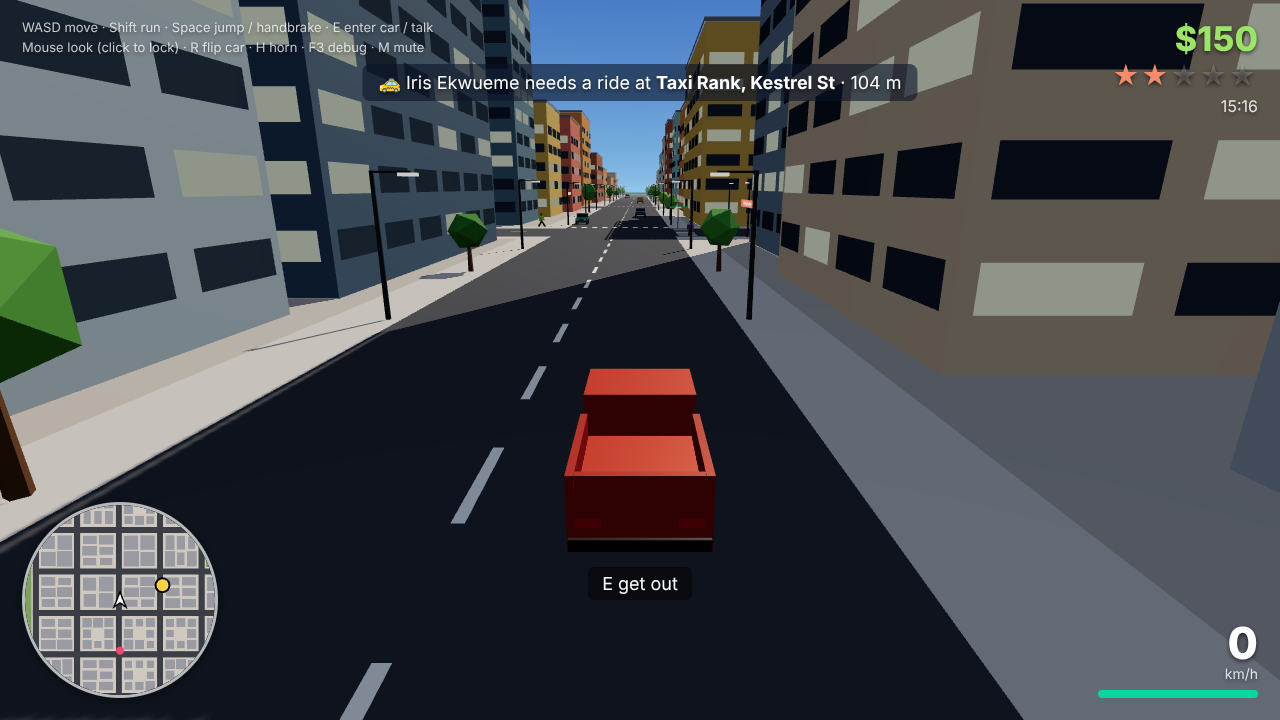
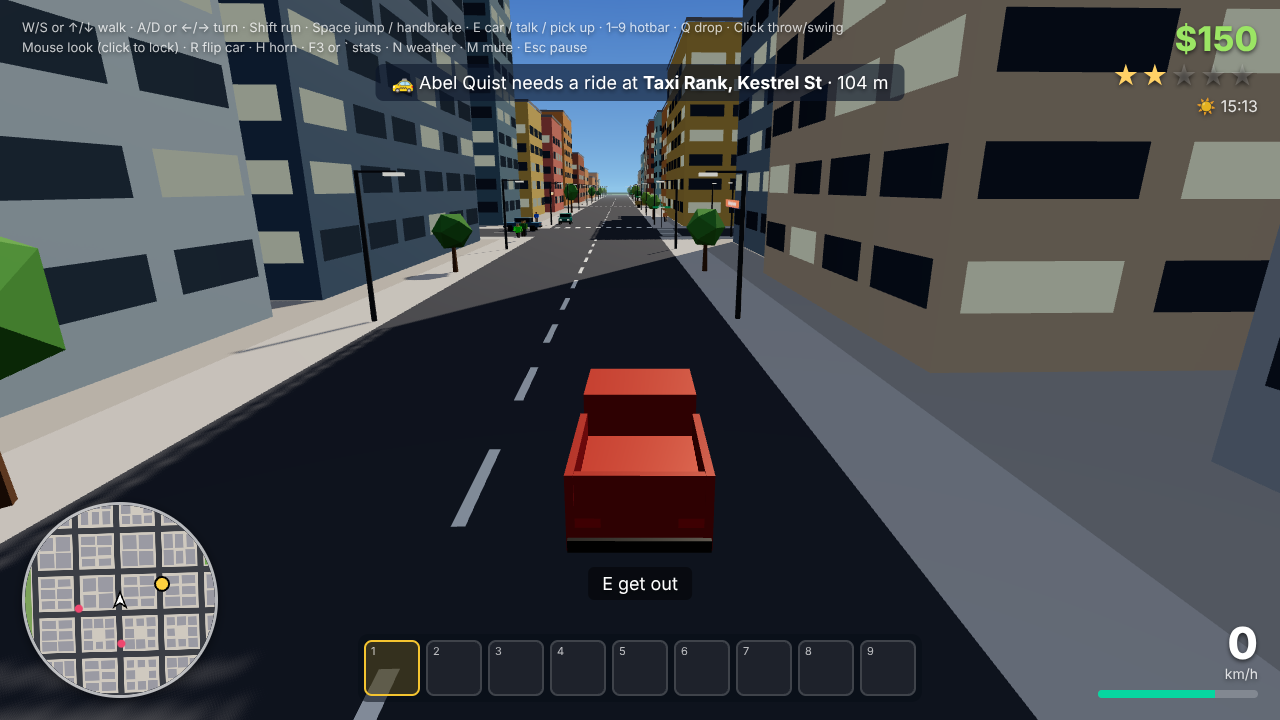
Cut per-frame Rapier writes: pedestrian capsules only near the player, traffic/police rotation only on heading change; gate screenshots
Claude-Session: https://claude.ai/code/session_012Y9CQc2geJ2jhDimLjKczQ

diff --git a/src/systems/pedestrians.ts b/src/systems/pedestrians.ts
@@ -79,6 +79,7 @@ export interface Ped {
   report: { x: number; z: number; heat: number; kind: string } | null;
   /** Kids and dogs are never targets: things pass them by and they always dodge cars. */
   protectedTarget: boolean;
+  solid: boolean; // capsule currently enabled
 }
 
 const SKIN = ['#f1c27d', '#e0ac69', '#c68642', '#8d5524', '#ffdbac', '#a0522d'];
@@ -127,7 +128,7 @@ function makePed(w: World, id: number, rng: Rng, archetype: Archetype, startX: n
     walkPhase: rng.range(0, 6), moveAmount: 0, speedingCd: 0, offset: rng.range(-0.9, 0.9), reserved: false,
     health: 100, hitCount: 0, lastHitByPlayer: -100, lastShoved: -100, shoveCount: 0, shoutT: 0,
     scale, tilt: 0, armPose: 'none', prop, shirt, pants, skin: C(SKIN), hair, speedMul: spec.speed, followId: -1, dog: null,
-    body, collider, phoneT: 0, phoneMode: null, report: null, protectedTarget: archetype === 'kid',
+    body, collider, phoneT: 0, phoneMode: null, report: null, protectedTarget: archetype === 'kid', solid: true,
   };
 }
 
@@ -170,7 +171,8 @@ export function applyPedBudget(w: World): void {
     if (want === p.active) continue;
     if (!want && (p.state === 'talk' || p.reserved)) continue; // never vanish mid-conversation or as a fare
     p.active = want;
-    p.body.setEnabled(want && !p.hidden);
+    p.solid = want && !p.hidden;
+    p.body.setEnabled(p.solid);
     if (want) relocateNearPlayer(w, p);
   }
 }
@@ -457,9 +459,13 @@ export function updatePeds(w: World, dt: number): void {
     ped.moveAmount = ped.state === 'down' ? 0 : Math.min(1.4, moveSpeed / PT.walkSpeed);
     if (ped.dog) updateDog(w, ped, dt, moveSpeed);
 
-    // capsule follows the body (off while lying down or hidden)
-    const solid = ped.state !== 'down';
-    if (ped.body.isEnabled() !== solid) ped.body.setEnabled(solid);
+    // capsule follows the body, but only near the player: nothing else touches it, and every Rapier
+    // body update allocates, so far-away capsules are switched off (also off while lying down)
+    const solid = ped.state !== 'down' && Math.abs(ped.pos.x - pp.x) < PT.capsuleRange && Math.abs(ped.pos.z - pp.z) < PT.capsuleRange;
+    if (ped.solid !== solid) {
+      ped.solid = solid;
+      ped.body.setEnabled(solid);
+    }
     if (solid) {
       KIN.x = ped.pos.x; KIN.y = ped.pos.y + 0.95 * ped.scale; KIN.z = ped.pos.z;
       ped.body.setNextKinematicTranslation(KIN);

diff --git a/src/systems/traffic.ts b/src/systems/traffic.ts
@@ -36,6 +36,7 @@ export interface AiCar {
   swerveT: number;
   stunT: number;
   stuckT: number;
+  lastSetHeading: number; // heading last written to the physics body
   px: number; // cached position, refreshed once per physics step (avoids allocating translation() calls)
   pz: number;
   /** Optional route chooser at junctions (police use BFS toward the player). */
@@ -125,7 +126,7 @@ export function createAiCar(w: World, kind: 'traffic' | 'police', type: CarTypeN
   const car: AiCar = {
     id: kind === 'police' ? w.police?.cars?.length ?? 0 : w.traffic.length, kind, type, body, collider, mesh, meshYOffset: rideY - halfH, halfW: hx, halfL: hz,
     from, to, next: -1, phase: 'lane', path: [], cum: [], s: 0, speed: 0, heading: 0, waitT: 0, honkCd: 0, blockedT: 0,
-    swerve: 0, swerveT: 0, stunT: 0, stuckT: 0, px: 0, pz: 0,
+    swerve: 0, swerveT: 0, stunT: 0, stuckT: 0, px: 0, pz: 0, lastSetHeading: NaN,
   };
   placeOnEdge(w, car, from, to, s0);
   return car;
@@ -142,6 +143,7 @@ export function placeOnEdge(w: World, car: AiCar, from: number, to: number, s0: 
   car.heading = Math.atan2(d.x, d.y);
   car.body.setTranslation({ x: p.x, y: 0.62, z: p.y }, true);
   car.body.setRotation(yawQuat(car.heading), true);
+  car.lastSetHeading = car.heading;
   car.body.setLinvel({ x: 0, y: 0, z: 0 }, true);
   car.px = p.x;
   car.pz = p.y;
@@ -284,8 +286,11 @@ export function driveAlongPath(w: World, car: AiCar, want: number, dt: number, r
   car.heading += THREE.MathUtils.clamp(dh * 4 * dt, -turnRate * dt, turnRate * dt);
   const lv = car.body.linvel();
   car.body.setLinvel(velXZ(Math.sin(car.heading) * car.speed, lv.y, Math.cos(car.heading) * car.speed), true);
-  car.body.setAngvel(velXZ(0, 0, 0), true);
-  car.body.setRotation(yawQuat(car.heading), true);
+  // every Rapier write allocates: only push the rotation when the heading actually changed
+  if (Math.abs(car.heading - car.lastSetHeading) > 1e-4) {
+    car.lastSetHeading = car.heading;
+    car.body.setRotation(yawQuat(car.heading), true);
+  }
 }
 
 /** After a collision the car is "stunned": physics moves it freely for a moment. */

diff --git a/src/systems/crowdRender.ts b/src/systems/crowdRender.ts
@@ -6,6 +6,7 @@ import { GeoBuilder } from '../art/geo';
 import type { Ped } from './pedestrians';
 
 const WHITE = new THREE.Color(1, 1, 1);
+const PART_KEYS = ['torso', 'head', 'hair', 'legL', 'legR', 'armL', 'armR', 'phone', 'camera', 'parcel', 'cane', 'dog', 'dogTail'] as const;
 
 interface Part {
   mesh: THREE.InstancedMesh;
@@ -92,7 +93,7 @@ function limb(px: number, py: number, pz: number, rx: number, rz = 0) {
 
 export function renderCrowd(w: World): void {
   const C = w.crowd;
-  for (const k of Object.keys(C) as (keyof CrowdRender)[]) C[k].n = 0;
+  for (const k of PART_KEYS) C[k].n = 0;
   const cam = w.camera;
   pv.multiplyMatrices(cam.projectionMatrix, cam.matrixWorldInverse);
   frustum.setFromProjectionMatrix(pv);
@@ -107,7 +108,7 @@ export function renderCrowd(w: World): void {
     drawPed(C, ped);
     if (ped.dog) drawDog(C, ped);
   }
-  for (const k of Object.keys(C) as (keyof CrowdRender)[]) {
+  for (const k of PART_KEYS) {
     const p = C[k];
     p.mesh.count = p.n;
     p.mesh.instanceMatrix.needsUpdate = true;

diff --git a/src/systems/police.ts b/src/systems/police.ts
@@ -228,8 +228,10 @@ export function drivePolice(w: World, dt: number): void {
       car.speed += THREE.MathUtils.clamp(want - car.speed, -TUNING.traffic.brake * dt, P.accel * dt);
       const lv = car.body.linvel();
       car.body.setLinvel(velXZ(Math.sin(car.heading) * car.speed, lv.y, Math.cos(car.heading) * car.speed), true);
-      car.body.setAngvel(velXZ(0, 0, 0), true);
-      car.body.setRotation(yawQuat(car.heading), true);
+      if (Math.abs(car.heading - car.lastSetHeading) > 1e-4) {
+        car.lastSetHeading = car.heading;
+        car.body.setRotation(yawQuat(car.heading), true);
+      }
       car.phase = 'lane';
       car.stuckT = 0;
     } else {

diff --git a/src/tuning.ts b/src/tuning.ts
@@ -208,6 +208,7 @@ const RAW = {
     respawnMin: 70, // metres from you where they reappear (always out of view)
     respawnMax: 170,
     kidScale: 0.62, // size of children next to adults
+    capsuleRange: 35, // metres: people's collision capsules are only active this close to you
     dogBarkDistance: 7, // metres: dogs bark at you when you're this close
     dogBarkCooldown: 7, // seconds between barks
     // archetypes: how common (weight), how fast (x walk speed) and how big (scale range)
